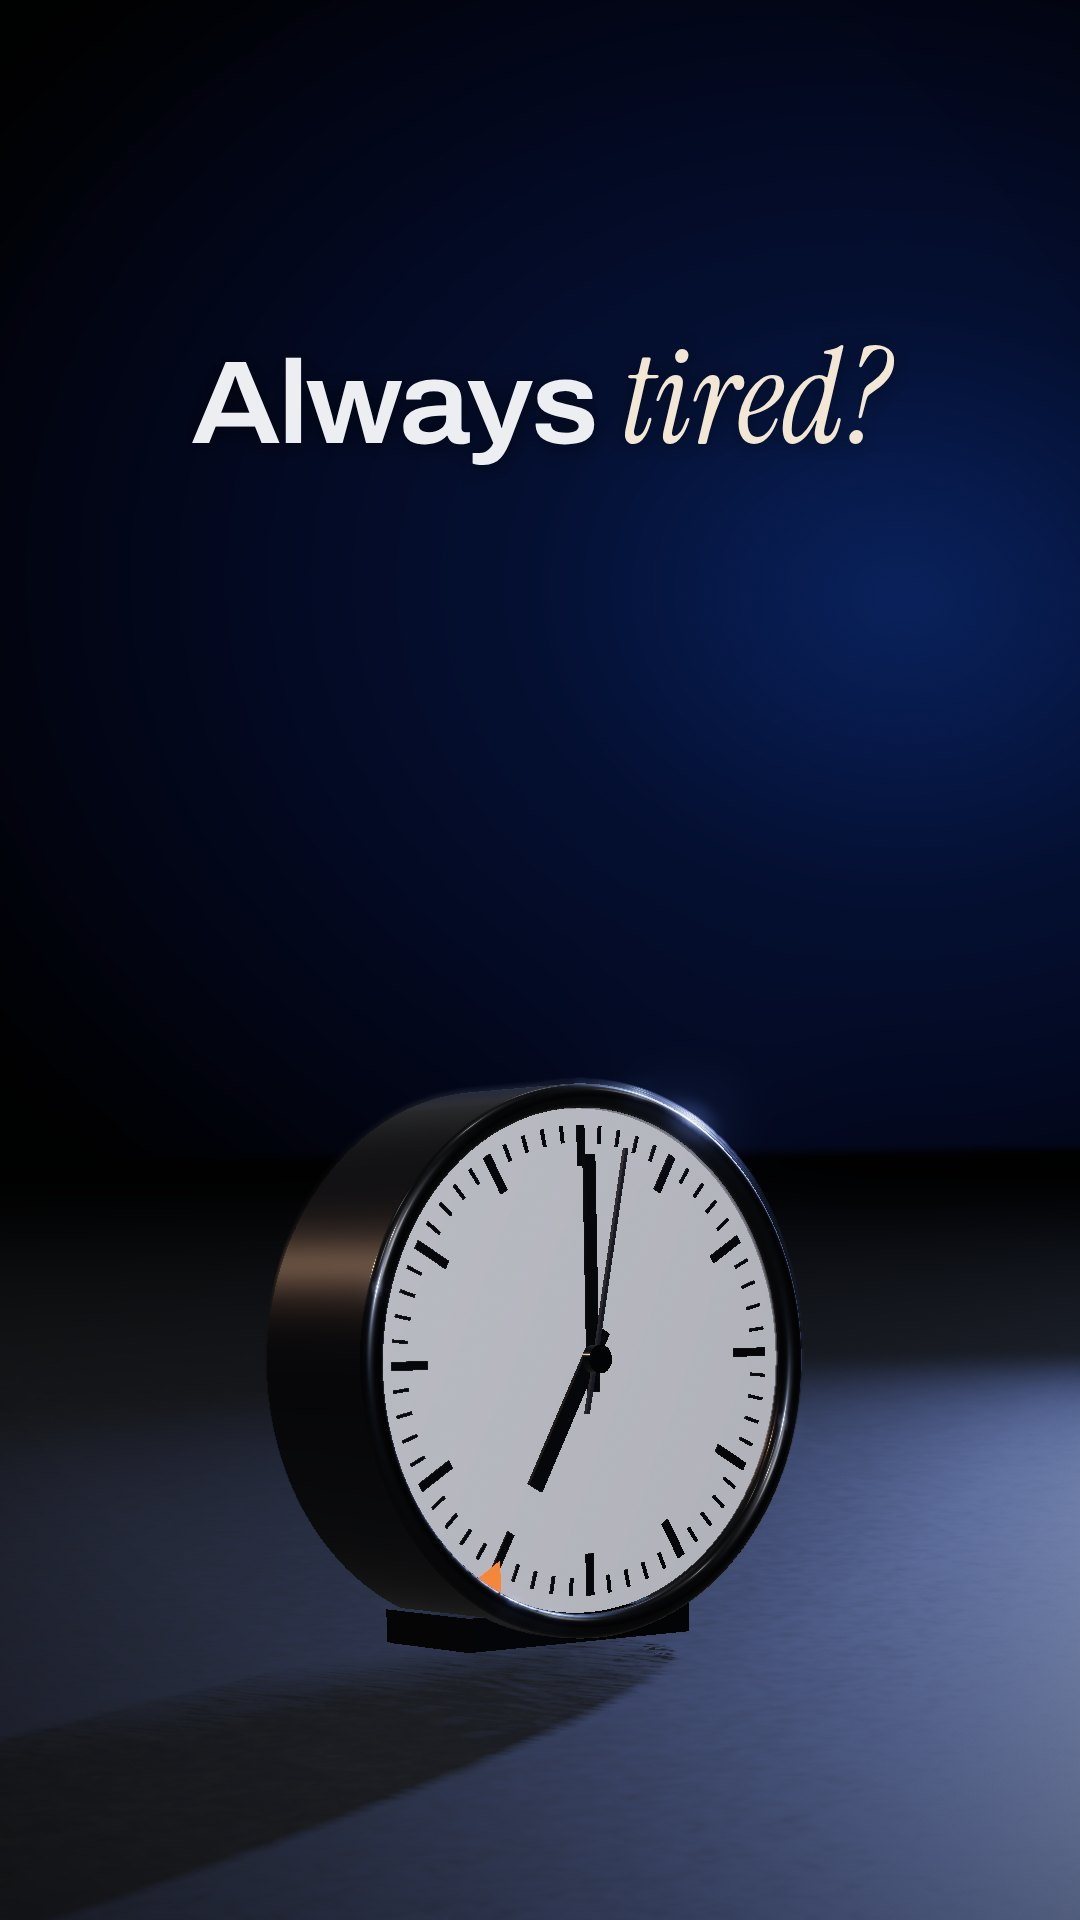
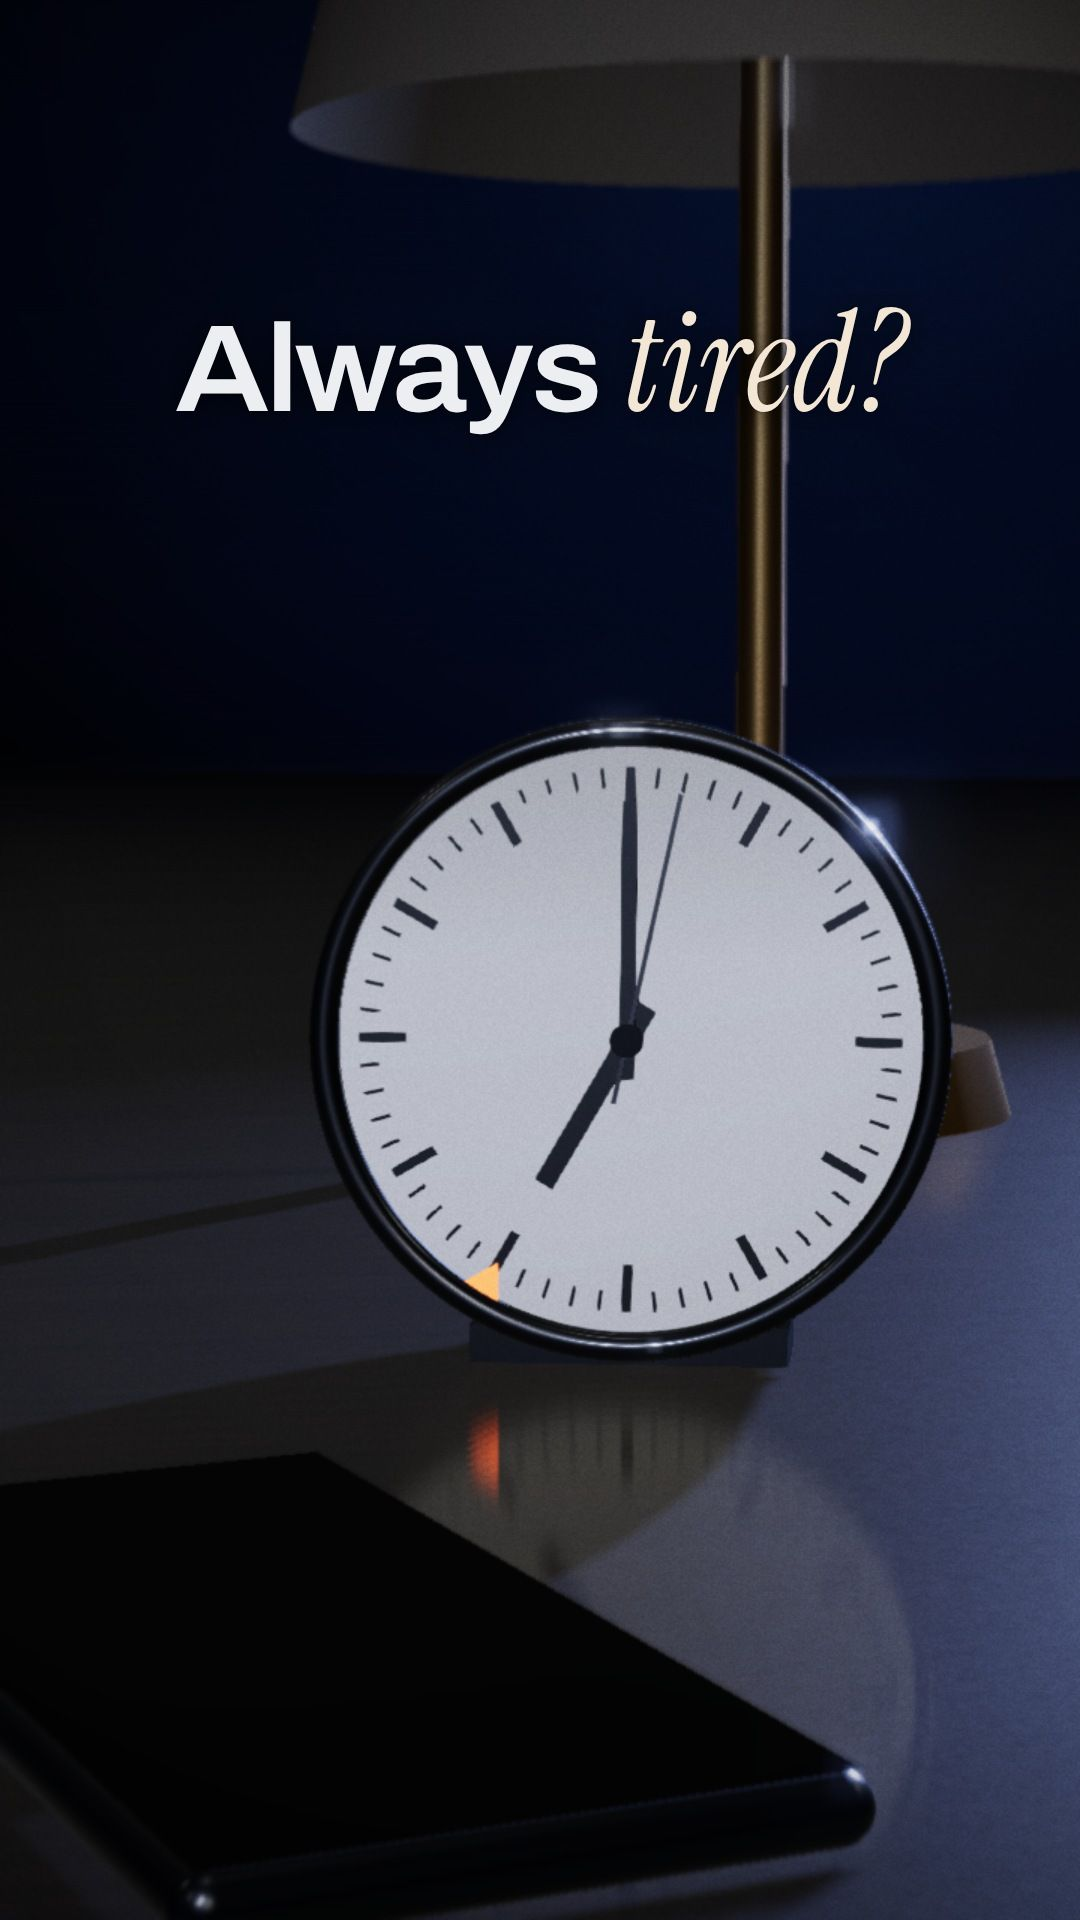
Site: one breadcrumb, clearer next steps, keyboard and phone fixes; film 1 final
- One Breadcrumb component everywhere (the pages above, as links); question pages show Topics / area
- The tired page links the 7-day plan; the sleep story is called "The science" wherever it is linked
- Home: the film button says when film 1 comes out; the film still and the Watch storyboard are frames of the final film
- 3D body on the page: a vertical swipe scrolls the page (full screen keeps every gesture)
- Full-screen 3D: focus moves in, stays in, and returns on close; name tags leave the tab order
- Pulse timer: read aloud at start and end, not every second
- Hero chips: focus rings no longer clipped; the hidden Explore button cannot take focus
- Film 1 source: softer phone glass (no flare at 44 s), the lamp clicks off before the night passes, a longer screenshot timeout, frame ranges for repairs

Claude-Session: https://claude.ai/code/session_01TVMgYMtoTFayyqK3uwjWuk

diff --git a/scripts/film/film1.js b/scripts/film/film1.js
@@ -31,6 +31,7 @@ export const T = {
   lamp: 33.45, phone: 35.05, roomLight: 36.5, body: 37.7, // "Three: late light. Bright light at night, even room light, tells your body clock it's still day,"
   shift0: 40.45, shift1: 42.45, // "so your sleep signal comes later."
   dialsUp: 44.35, dial1: 47.5, dial2: 49.5, dial3: 51.28, // "For a seven a.m. alarm: in bed by eleven, last coffee by two, lights low from eight."
+  lampOff: 52.0, // lights out: the lamp clicks off before the night passes
   dawn0: 52.35, seven: 54.45, doctor: 54.62, // "Still tired with enough sleep? See a doctor. Low iron, or your thyroid, can cause it."
   final: 59.35, click: 60.5, logo: 61.15, // "Back to factory settings."
 };
@@ -322,7 +323,7 @@ function makeDial() {
   return { g, knobG, set, setMat, angle: (v) => -Math.PI * 0.75 + v * Math.PI * 1.5 };
 }
 
-function makePhone() {
+function makePhone(glassOpts = {}) {
   const g = new THREE.Group();
   const W = 0.0716, L = 0.1476, Th = 0.0078;
   const body = new THREE.Mesh(new RoundedBoxGeometry(W, Th, L, 6, 0.0085), phys({ color: 0x1a1c20, roughness: 0.3, metalness: 0.6, clearcoat: 0.8, clearcoatRoughness: 0.2 }));
@@ -336,7 +337,7 @@ function makePhone() {
   const tex = new THREE.CanvasTexture(cv); tex.colorSpace = THREE.SRGBColorSpace; tex.anisotropy = 8;
   const screenMat = new THREE.MeshBasicMaterial({ map: tex, color: new THREE.Color(0, 0, 0) });
   const screen = new THREE.Mesh(new THREE.PlaneGeometry(W - 0.004, L - 0.004), screenMat); screen.rotation.x = -Math.PI / 2; screen.position.y = Th + 0.0002; g.add(screen);
-  const glass = new THREE.Mesh(new THREE.PlaneGeometry(W - 0.003, L - 0.003), phys({ color: 0x000000, roughness: 0.05, clearcoat: 1, transparent: true, opacity: 0.35, depthWrite: false }));
+  const glass = new THREE.Mesh(new THREE.PlaneGeometry(W - 0.003, L - 0.003), phys({ color: 0x000000, roughness: 0.3, specularIntensity: 0.25, transparent: true, opacity: 0.35, depthWrite: false, ...glassOpts }));
   glass.rotation.x = -Math.PI / 2; glass.position.y = Th + 0.0004; g.add(glass);
   shadows(g);
   return { g, screenMat };
@@ -535,7 +536,7 @@ export async function init(cfg) {
 
   // the nightstand: clock, phone, lamp, and the three settings under the table
   W.clock = makeClock(); W.clock.g.position.copy(CLOCK); W.clock.g.rotation.y = CLOCK_RY; scene.add(W.clock.g);
-  W.phone = makePhone(); W.phone.g.position.copy(PHONE); W.phone.g.rotation.y = PHONE_RY; scene.add(W.phone.g);
+  W.phone = makePhone(cfg.glass); W.phone.g.position.copy(PHONE); W.phone.g.rotation.y = PHONE_RY; scene.add(W.phone.g);
   W.lamp = makeLamp(); W.lamp.g.position.copy(LAMP); scene.add(W.lamp.g);
   W.dials = DIALS.map((p) => { const d = makeDial(); d.g.position.copy(p); scene.add(d.g); return d; });
 
@@ -740,7 +741,7 @@ function update(t) {
   W.cupRim.intensity = cupOn * 1.8;
   // the lamp clicks on, the phone lights up; later, lights low, then off
   const lampK = (t > T.lamp ? (1 - Math.exp(-(t - T.lamp) * 30)) * (1 + 0.25 * Math.exp(-(t - T.lamp) * 9) * Math.sin((t - T.lamp) * 70)) : 0);
-  const lampLevel = lampK * lerp(1, 0.28, ss(T.dial3, T.dial3 + 0.5, t)) * (1 - ss(T.dawn0 + 0.1, T.dawn0 + 0.9, t));
+  const lampLevel = lampK * lerp(1, 0.28, ss(T.dial3, T.dial3 + 0.5, t)) * (1 - ss(T.lampOff, T.lampOff + 0.1, t));
   W.lampSpot.intensity = lampLevel * 1.25; W.lampSpot.shadow.autoUpdate = W.lampSpot.intensity > 0.01;
   W.bulb.intensity = lampLevel * 0.3;
   W.lamp.shadeMat.emissiveIntensity = lampLevel * 0.6; W.lamp.bulbMat.color.setRGB(1.6, 1.2, 0.8).multiplyScalar(lampLevel);
@@ -869,6 +870,7 @@ export function render(t, opts = {}) {
   for (let k = 0; k < sub; k++) {
     const tk = sub > 1 ? t + ((k + 0.5) / sub - 0.5) * (shutter / fps) : t;
     update(tk); placeCameras(tk); r.shadowMap.needsUpdate = true;
+    if (W.cfg.lightScale) for (const [k, v] of Object.entries(W.cfg.lightScale)) if (W[k]) W[k].intensity *= v; // debugging: scale named lights
     { const half = (shutter / fps) / sub / 2, m = W.motion.uniforms;
       aimCam(W.camM0, poseAt(tk - half), tk - half); aimCam(W.camM1, poseAt(tk + half), tk + half);
       m.uVP0.value.multiplyMatrices(W.camM0.projectionMatrix, W.camM0.matrixWorldInverse);

diff --git a/components/explorer/ExplorerOverlay.tsx b/components/explorer/ExplorerOverlay.tsx
@@ -38,8 +38,39 @@ export function ExplorerOverlay({ system, onClose }: { system: SystemId | null; 
     else closeRef.current();
   }, []);
 
+  // keyboard: focus moves into the dialog, Tab stays inside it, and focus goes back where it was on close
+  const box = useRef<HTMLDivElement>(null);
+  useEffect(() => {
+    const before = document.activeElement instanceof HTMLElement ? document.activeElement : null;
+    const raf = requestAnimationFrame(() => box.current?.focus({ preventScroll: true }));
+    const onKey = (e: KeyboardEvent) => {
+      const el = box.current;
+      if (e.key !== "Tab" || !el) return;
+      const items = [...el.querySelectorAll<HTMLElement>('a[href], button:not([disabled]), input:not([disabled]), select, textarea, [tabindex]:not([tabindex="-1"])')].filter(
+        (n) => n.getClientRects().length > 0,
+      );
+      if (!items.length) return;
+      const first = items[0], last = items[items.length - 1], at = document.activeElement;
+      if (e.shiftKey && (at === first || at === el || !el.contains(at))) {
+        e.preventDefault();
+        last.focus();
+      } else if (!e.shiftKey && (at === last || !el.contains(at))) {
+        e.preventDefault();
+        first.focus();
+      }
+    };
+    document.addEventListener("keydown", onKey);
+    return () => {
+      cancelAnimationFrame(raf);
+      document.removeEventListener("keydown", onKey);
+      before?.focus({ preventScroll: true });
+    };
+  }, []);
+
   return createPortal(
     <motion.div
+      ref={box}
+      tabIndex={-1}
       role="dialog"
       aria-modal="true"
       aria-label="Your body in 3D"
@@ -47,7 +78,7 @@ export function ExplorerOverlay({ system, onClose }: { system: SystemId | null; 
       animate={{ opacity: 1, scale: 1 }}
       exit={{ opacity: 0 }}
       transition={{ duration: 0.45, ease: [0.16, 1, 0.3, 1] }}
-      style={{ position: "fixed", inset: 0, zIndex: 90 }}
+      style={{ position: "fixed", inset: 0, zIndex: 90, outline: "none" }}
     >
       <BodyExplorer variant="overlay" initial={system} onClose={close} />
     </motion.div>,

diff --git a/components/hero/hero.module.css b/components/hero/hero.module.css
@@ -24,9 +24,9 @@
 .hint {
   position: absolute; left: 50%; bottom: 6px; transform: translateX(-50%); z-index: 2; display: inline-flex; align-items: center; gap: 8px; white-space: nowrap;
   font-size: 12.5px; font-weight: 600; color: var(--ink2); padding: 5px 6px 5px 12px; border-radius: 999px; background: rgba(9, 11, 14, 0.6); border: 1px solid var(--edge);
-  opacity: 0; transition: opacity 0.8s var(--ease);
+  opacity: 0; visibility: hidden; transition: opacity 0.8s var(--ease), visibility 0s linear 0.8s; /* hidden, it cannot take focus */
 }
-.hintOn { opacity: 1; }
+.hintOn { opacity: 1; visibility: visible; transition: opacity 0.8s var(--ease), visibility 0s; }
 .hintText { display: inline-flex; align-items: center; gap: 7px; padding-left: 4px; }
 .explore {
   display: inline-flex; align-items: center; gap: 7px; min-height: 34px; padding: 0 13px; border-radius: 999px; border: 0; cursor: pointer;
@@ -40,7 +40,7 @@
 .copy { position: relative; z-index: 2; min-width: 0; display: flex; flex-direction: column; gap: 14px; padding: 0 var(--gutter) 28px; margin-top: -1svh; }
 .slot { min-height: 104px; display: flex; flex-direction: column; justify-content: flex-start; }
 .sub { margin: 0; font-size: 16.5px; line-height: 1.5; color: var(--ink2); max-width: 34em; text-wrap: pretty; }
-.chips { display: flex; gap: 8px; overflow-x: auto; margin: 0 calc(-1 * var(--gutter)); padding: 2px var(--gutter) 4px; scrollbar-width: none; }
+.chips { display: flex; gap: 8px; overflow-x: auto; margin: -6px calc(-1 * var(--gutter)) -4px; padding: 8px var(--gutter) 8px; scroll-padding-inline: var(--gutter); scrollbar-width: none; } /* room for focus rings, which a scrolling row would clip */
 .chips::-webkit-scrollbar { display: none; }
 .chip {
   flex: none; display: inline-flex; align-items: center; gap: 8px; min-height: 44px; padding: 0 16px; border-radius: 999px; cursor: pointer;

diff --git a/app/watch/page.tsx b/app/watch/page.tsx
@@ -29,7 +29,7 @@ export default function WatchPage() {
               Why am I always <span className="serif">tired?</span>
             </h2>
             <p className="lede" style={{ margin: 0 }}>
-              Three things to check first: short sleep, late coffee and late light. About one minute, in ten calm shots.
+              Three things to check first: short sleep, late coffee and late light. About one minute, in one continuous shot with no cuts.
             </p>
             <div className="row-wrap gap-10">
               <Link className="btn btn-signal" href="/sleep-energy/why-am-i-always-tired">
@@ -39,7 +39,7 @@ export default function WatchPage() {
             </div>
           </div>
           {/* eslint-disable-next-line @next/next/no-img-element */}
-          <img className={s.board} src="/img/film1_storyboard.jpg" alt="Film 1 in eight preview stills: an alarm clock at 7 a.m., the brain filling with the sleepy chemical, the caffeine curve from a coffee cup, a lamp and phone at 11:47 p.m., the sleep signal arriving later, three dials, the clock in warm morning light, the logo dial" width={2000} height={2207} loading="lazy" />
+          <img className={s.board} src="/img/film1_storyboard.jpg" alt="Film 1 in eight preview stills: an alarm clock at 7 a.m. under the words Always tired?, the brain filling with the sleepy chemical, the caffeine curve at 11 p.m. with half still there, the lamp and the phone at night, the sleep signal sliding later on the clock, three dials set for a 7 a.m. alarm, the clock in morning light with the doctor line, the logo dial" width={2000} height={2207} loading="lazy" />
         </section>
 
         <section className="card card-pad stack gap-10" aria-labelledby="doc1" style={{ maxWidth: 820 }}>

diff --git a/components/topic/topic.module.css b/components/topic/topic.module.css
@@ -1,9 +1,6 @@
 .page { padding-top: calc(var(--header-h) + 28px); }
 @media (min-width: 900px) { .page { padding-top: calc(var(--header-h) + 56px); } }
 .col { width: 100%; max-width: 780px; margin: 0 auto; padding: 0 var(--gutter); }
-.crumb { display: flex; gap: 8px; font-family: var(--font-mono); font-size: 11px; letter-spacing: 0.12em; text-transform: uppercase; color: var(--ink3); }
-.crumb a { color: var(--ink3); text-decoration: none; }
-.crumb a:hover { color: var(--ink); }
 .h1 { margin: 18px 0 0; font-variation-settings: "wdth" 106; font-weight: 660; letter-spacing: -0.03em; line-height: 1.02; font-size: clamp(40px, 7vw, 76px); text-wrap: balance; }
 .answer { margin: 22px 0 0; font-size: clamp(20px, 2.4vw, 25px); line-height: 1.42; font-weight: 520; color: var(--ink); text-wrap: pretty; }
 .answer em { font-family: var(--font-serif); font-style: italic; font-weight: 400; color: var(--signal-ink); font-size: 1.1em; }
@@ -35,7 +32,7 @@
 .science a { color: var(--signal-ink); }
 
 .next { margin-top: 48px; display: grid; gap: 12px; grid-template-columns: 1fr; }
-@media (min-width: 700px) { .next { grid-template-columns: repeat(2, minmax(0, 1fr)); } }
+@media (min-width: 700px) { .next { grid-template-columns: repeat(auto-fit, minmax(200px, 1fr)); } }
 .nextCard { display: flex !important; flex-direction: column; gap: 6px; padding: 18px 20px; }
 .nextK { font-family: var(--font-mono); font-size: 10.5px; letter-spacing: 0.14em; text-transform: uppercase; color: var(--signal-ink); }
 .nextT { font-size: 18px; font-weight: 650; color: var(--ink); line-height: 1.25; }

diff --git a/app/globals.css b/app/globals.css
@@ -324,6 +324,15 @@ a.card:hover { border-color: rgba(255, 122, 61, 0.45); transform: translateY(-2p
 .brand .word { font-variation-settings: "wdth" 108; font-size: 15px; font-weight: 650; letter-spacing: -0.01em; white-space: nowrap; }
 .brand:hover { color: var(--ink); }
 .site-header .brand { min-height: 44px; } /* a full-size tap target; the bars centre it, so nothing moves */
+/* the breadcrumb (components/Breadcrumb.tsx): the pages above this one, in small mono capitals */
+.crumbs {
+  display: flex; flex-wrap: wrap; align-items: center; gap: 8px; margin: 0; padding: 0; list-style: none;
+  font-family: var(--font-mono); font-size: 11px; letter-spacing: 0.12em; text-transform: uppercase; color: var(--ink3);
+}
+.crumbs li { display: inline-flex; align-items: center; gap: 8px; }
+.crumbs li + li::before { content: "/"; content: "/" / ""; color: var(--ink3); } /* the second, where supported, keeps the slash out of screen readers */
+.crumbs a { color: var(--ink3); text-decoration: none; }
+.crumbs a:hover { color: var(--ink); }
 /* breadcrumb links are small text: a taller tap target that takes no extra room */
 nav[aria-label="Breadcrumb"] a { padding-block: 8px; margin-block: -8px; }
 .nav-link {

diff --git a/app/body/[slug]/page.tsx b/app/body/[slug]/page.tsx
@@ -7,6 +7,7 @@ import { Ev, Measured } from "@/components/Evidence";
 import { DepthSwitch, DepthText } from "@/components/Depth";
 import { SpecFigure } from "@/components/SpecFigure";
 import { Icon } from "@/components/Icons";
+import { Breadcrumb } from "@/components/Breadcrumb";
 import { PulseCheck } from "@/components/tools/PulseCheck";
 import { HeartbeatCounter } from "@/components/tools/HeartbeatCounter";
 
@@ -47,13 +48,7 @@ export default async function SystemPage({ params }: { params: Promise<{ slug: s
           </div>
 
           <section className={s.side} aria-labelledby="sys-name">
-            <nav className={`cap ${s.crumb}`} aria-label="Breadcrumb">
-              <Link href="/body">Your body in 3D</Link>
-              <span aria-hidden="true">/</span>
-              <span>{x.group}</span>
-              <span aria-hidden="true">/</span>
-              <span style={{ color: "var(--ink2)" }}>{x.name}</span>
-            </nav>
+            <Breadcrumb items={[{ label: "Your body in 3D", href: "/body" }]} />
             <div className={s.titleRow}>
               <div className="kick">{x.group}</div>
               <DepthSwitch />

diff --git a/app/guides/[slug]/page.tsx b/app/guides/[slug]/page.tsx
@@ -4,6 +4,7 @@ import { notFound } from "next/navigation";
 import s from "../guides.module.css";
 import { GUIDES, loadGuide } from "@/lib/guides";
 import { Icon } from "@/components/Icons";
+import { Breadcrumb } from "@/components/Breadcrumb";
 import { WaistCheck } from "@/components/tools/WaistCheck";
 import { ProteinCheck } from "@/components/tools/ProteinCheck";
 
@@ -42,13 +43,7 @@ export default async function GuidePage({ params }: { params: Promise<{ slug: st
           </aside>
           <article>
             <header className={s.head}>
-              <nav className="cap" aria-label="Breadcrumb" style={{ display: "flex", gap: 8, flexWrap: "wrap" }}>
-                <Link href="/feel-better" style={{ color: "var(--ink3)", textDecoration: "none" }}>
-                  Feel better
-                </Link>
-                <span aria-hidden="true">/</span>
-                <span>Guide</span>
-              </nav>
+              <Breadcrumb items={[{ label: "Feel better", href: "/feel-better" }]} />
               <h1 className="h1">
                 {g.h1[0]} <span className="serif">{g.h1[1]}</span>
               </h1>

diff --git a/app/feel-better/sleep-and-caffeine/page.tsx b/app/feel-better/sleep-and-caffeine/page.tsx
@@ -4,6 +4,7 @@ import s from "../feel-better.module.css";
 import { SleepTools } from "@/components/tools/SleepTools";
 import { Ev } from "@/components/Evidence";
 import { Icon } from "@/components/Icons";
+import { Breadcrumb } from "@/components/Breadcrumb";
 
 export const metadata: Metadata = {
   title: "Protect your sleep from caffeine",
@@ -15,13 +16,7 @@ export default function CaffeinePlanPage() {
     <div className="page-top">
       <div className="wrap">
         <header className="stack gap-12" style={{ maxWidth: 820, marginBottom: 32 }}>
-          <nav className="cap" aria-label="Breadcrumb" style={{ display: "flex", gap: 8 }}>
-            <Link href="/feel-better" style={{ color: "var(--ink3)", textDecoration: "none" }}>
-              Feel better
-            </Link>
-            <span aria-hidden="true">/</span>
-            <span>Sleep</span>
-          </nav>
+          <Breadcrumb items={[{ label: "Feel better", href: "/feel-better" }]} />
           <h1 className="h1 a-in">
             Protect your sleep <span className="serif">from caffeine.</span>
           </h1>

diff --git a/components/tools/PulseCheck.tsx b/components/tools/PulseCheck.tsx
@@ -204,13 +204,17 @@ export function PulseCheck() {
         </div>
       ) : (
         <div className="stack gap-16">
+          {/* read aloud only when the timer starts and when it ends, not every second while people count */}
+          <p className="visually-hidden" aria-live="polite">
+            {countDone ? "Time is up. How many beats did you count?" : left !== null ? "Timer started: count every beat for 15 seconds." : ""}
+          </p>
           {left === null ? (
             <button type="button" className="btn btn-signal" style={{ alignSelf: "flex-start" }} onClick={startCount}>
               <Icon name="clock" size={16} />
               Start the 15-second timer
             </button>
           ) : !countDone ? (
-            <div className="tool-big" aria-live="polite">
+            <div className="tool-big">
               {Math.ceil(left)} <span>seconds left: count every beat</span>
             </div>
           ) : (

diff --git a/lib/questions/why-am-i-always-tired.tsx b/lib/questions/why-am-i-always-tired.tsx
@@ -140,10 +140,14 @@ export function Body() {
           <span className={s.nextK}>Try it</span>
           <span className={s.nextT}>How much caffeine is still in you at bedtime?</span>
         </Link>
+        <Link href="/feel-better/sleep-and-caffeine" className={`card ${s.nextCard}`}>
+          <span className={s.nextK}>Do it this week</span>
+          <span className={s.nextT}>Protect your sleep from caffeine: a 7-day plan</span>
+        </Link>
         <Link href="/stories/why-you-wake-up-tired" className={`card ${s.nextCard}`}>
           <span className={s.nextK}>Go deeper</span>
           <span className={s.nextT}>
-            The full story, step by step <Icon name="arrow" size={15} style={{ display: "inline", verticalAlign: "-2px" }} />
+            The science, step by step <Icon name="arrow" size={15} style={{ display: "inline", verticalAlign: "-2px" }} />
           </span>
         </Link>
       </div>

diff --git a/app/[area]/page.tsx b/app/[area]/page.tsx
@@ -2,6 +2,7 @@ import type { Metadata } from "next";
 import Link from "next/link";
 import { notFound } from "next/navigation";
 import s from "@/components/topic/topic.module.css";
+import { Breadcrumb } from "@/components/Breadcrumb";
 import { AREAS, byArea } from "@/lib/areas";
 import { Icon } from "@/components/Icons";
 
@@ -25,11 +26,7 @@ export default async function AreaPage({ params }: { params: Promise<{ area: str
   return (
     <div className={s.page}>
       <div className={s.col}>
-        <nav className={s.crumb} aria-label="Breadcrumb">
-          <Link href="/#fix">Topics</Link>
-          <span aria-hidden="true">/</span>
-          <span>{a.name}</span>
-        </nav>
+        <Breadcrumb items={[{ label: "Topics", href: "/#fix" }]} />
         <h1 className={s.h1}>{a.name}</h1>
         <p className={s.answer}>{a.intro}</p>
         <div className={`glass ${s.fact}`}>
